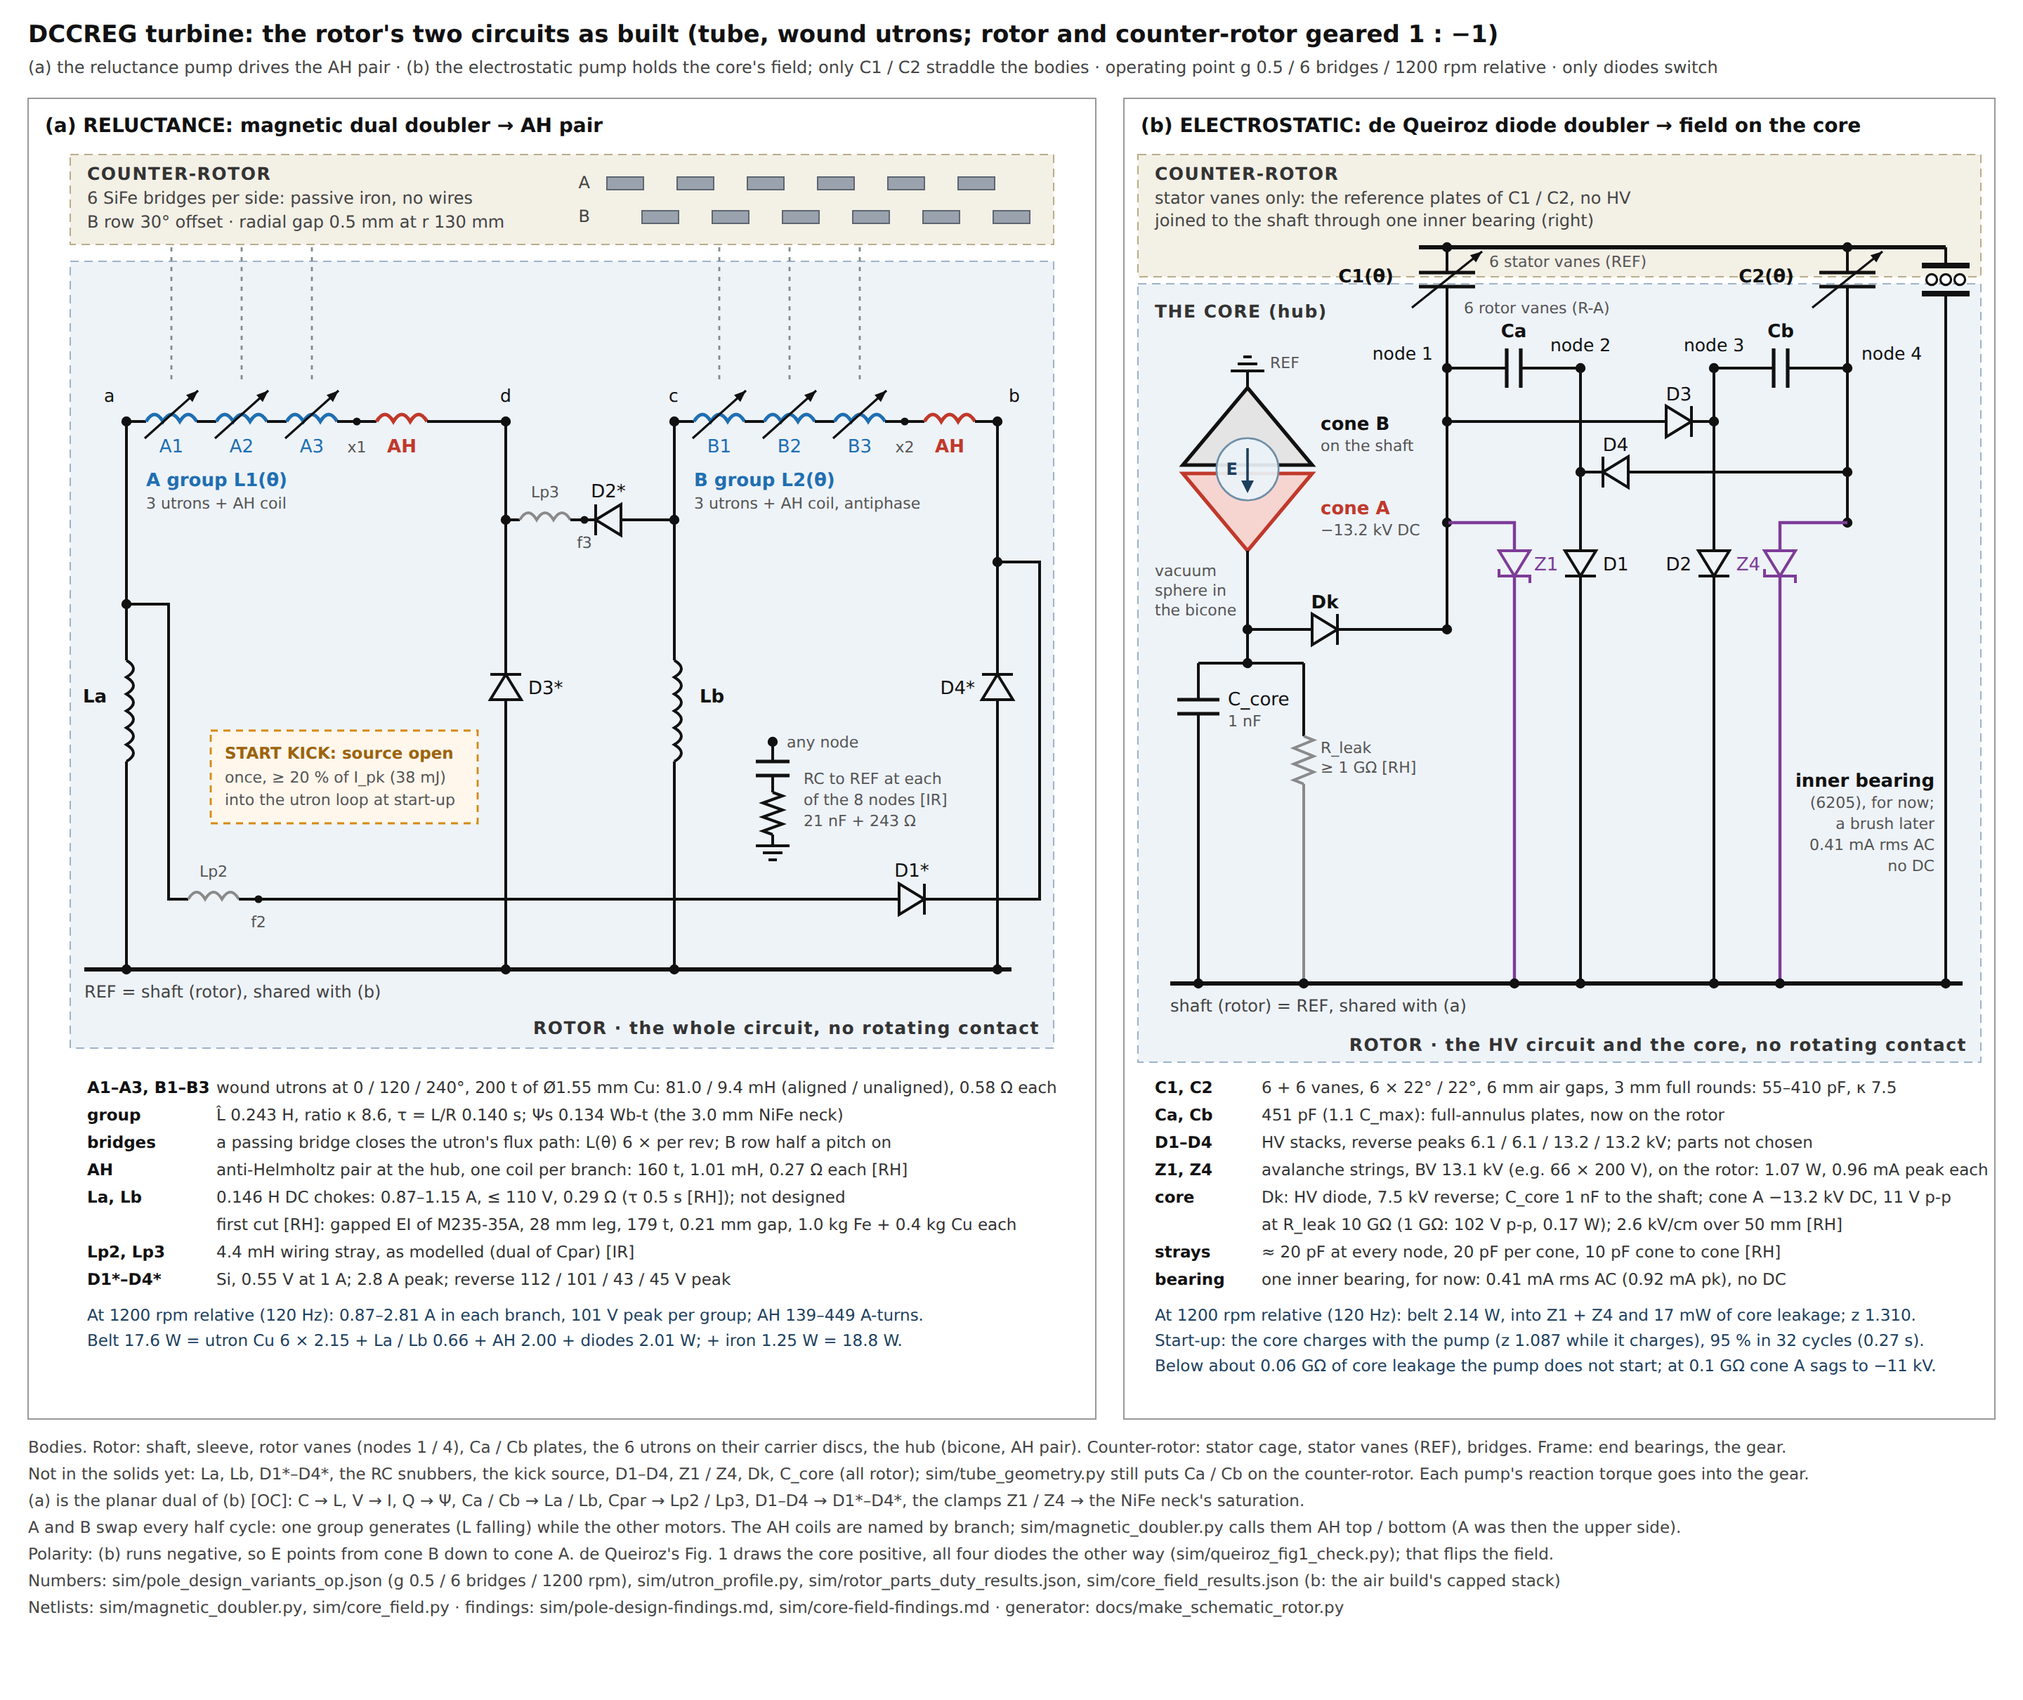
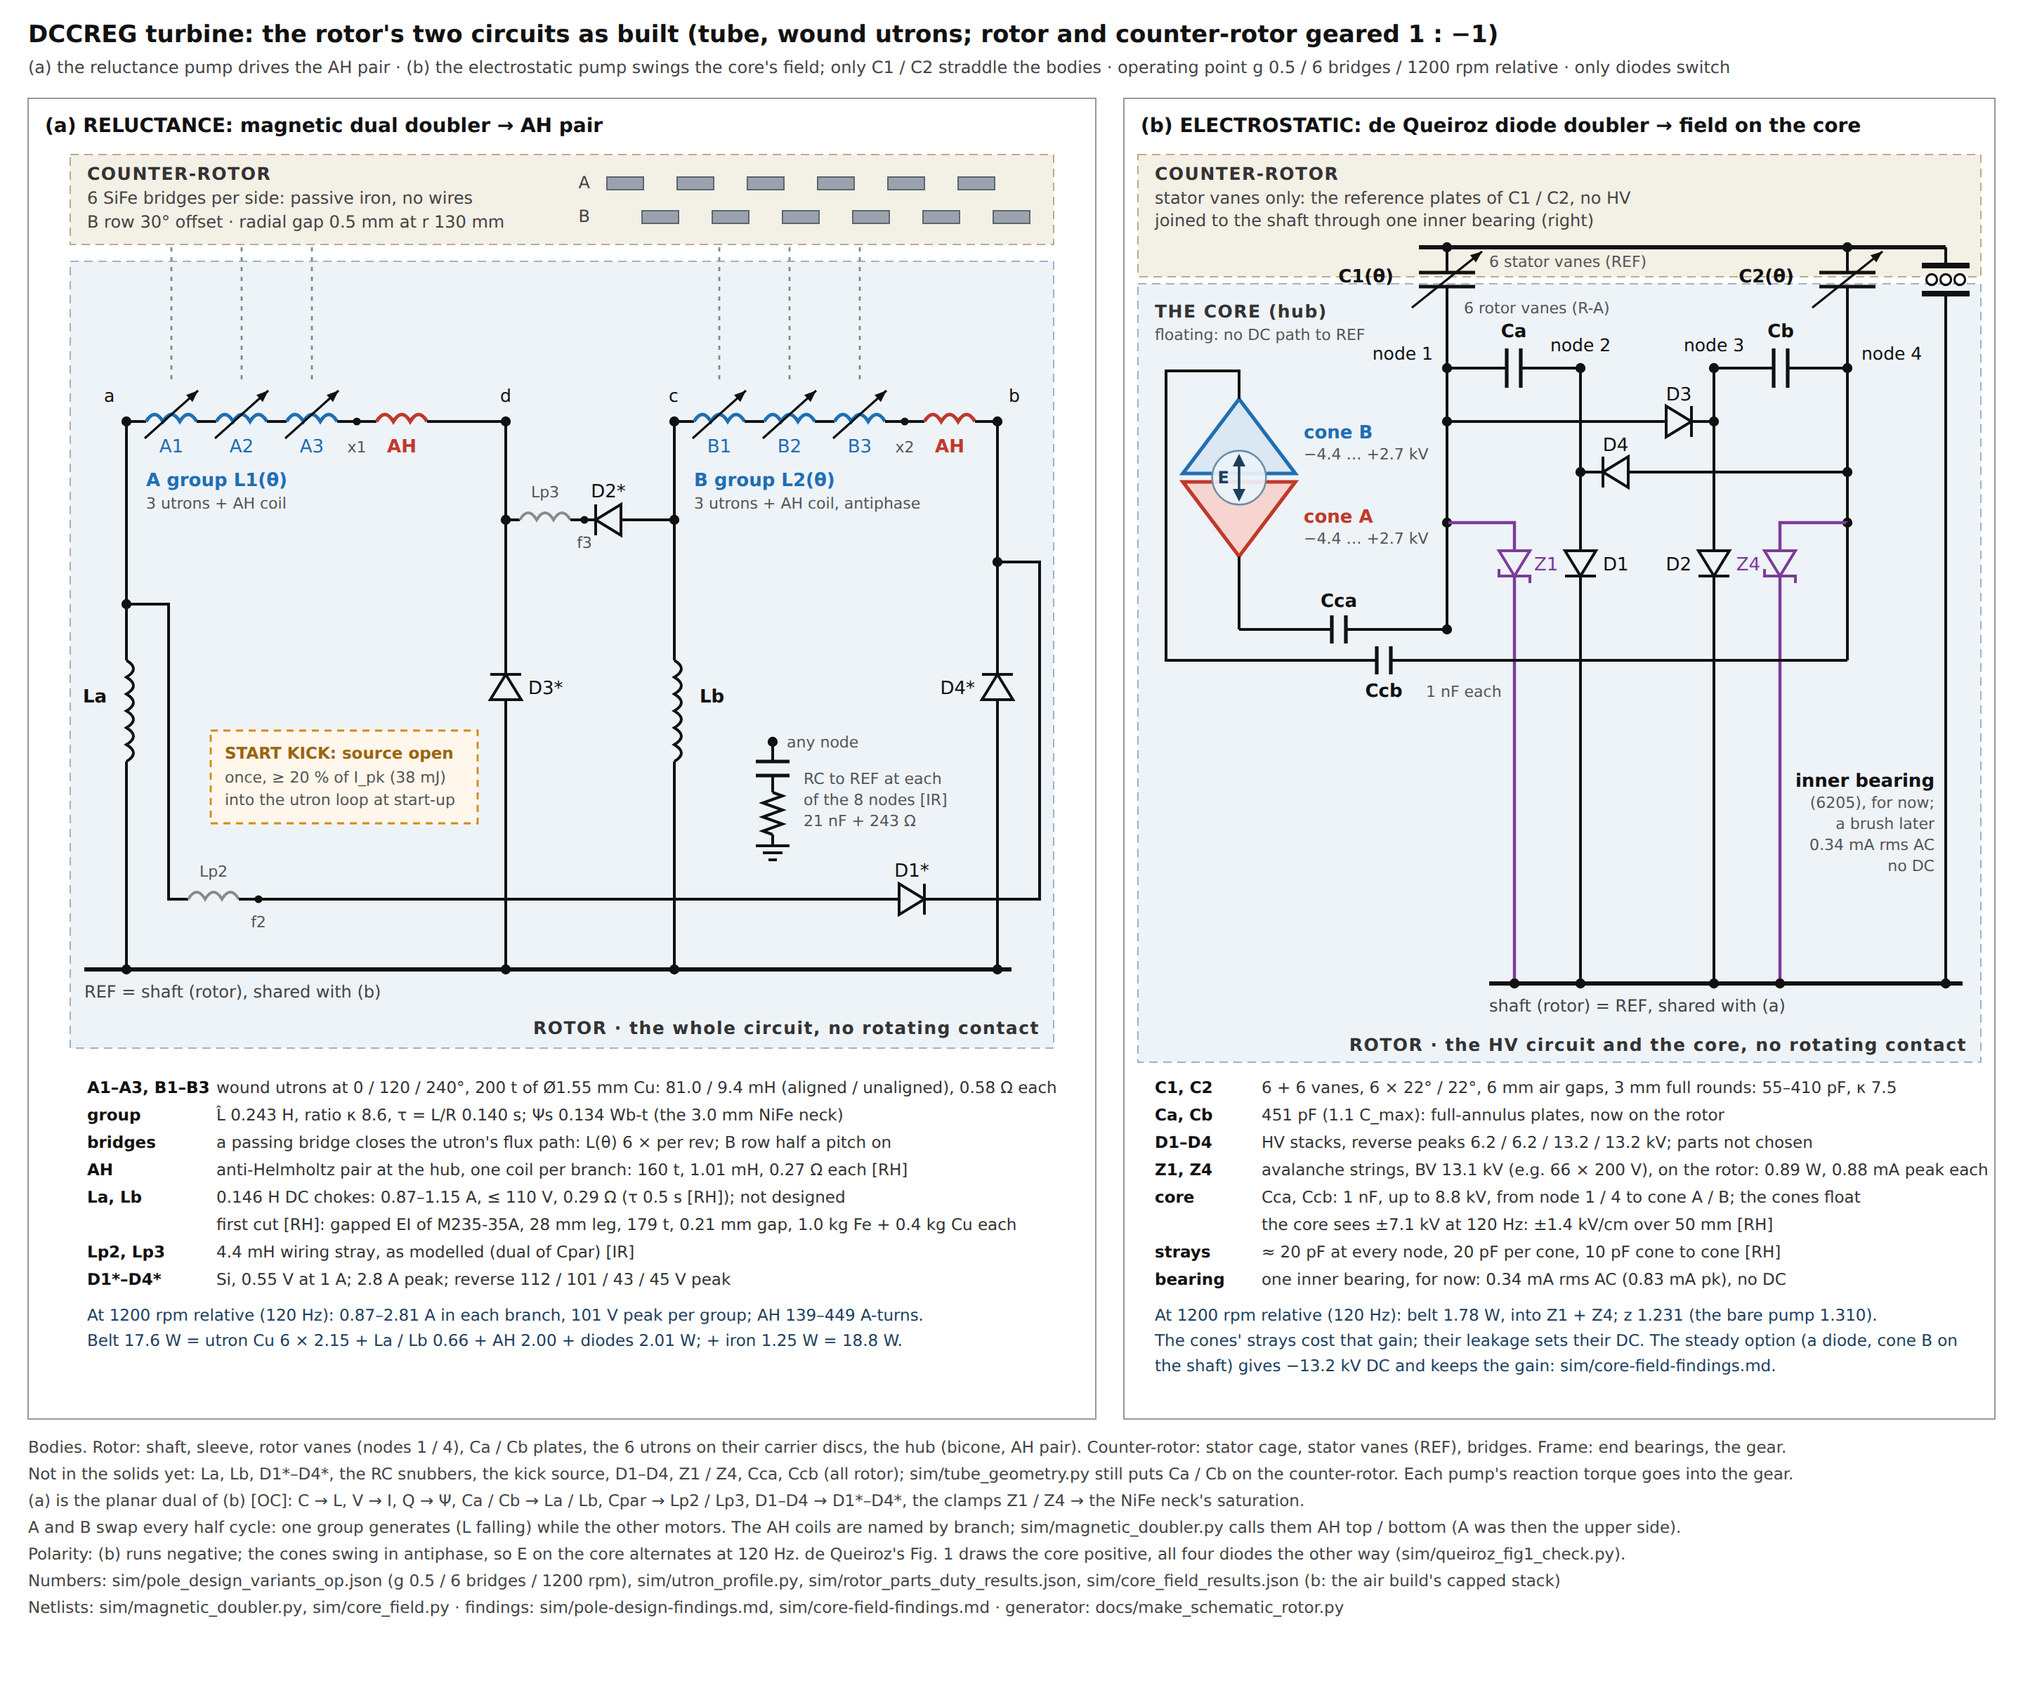
docs(schematic): panel (b) with the floating cones and the swinging field
Cca / Ccb from nodes 1 / 4 to the cones, no path from the core to REF, the
E arrow both ways; the table quotes the swing, the coupling capacitors'
voltage and the gain the cones cost.

Claude-Session: https://claude.ai/code/session_019kWq1ZtzZgffamNAmjzqBU

diff --git a/docs/make_schematic_rotor.py b/docs/make_schematic_rotor.py
@@ -5,8 +5,9 @@
     counter-rotor's passive bridges make L(theta); no wire crosses between the bodies.
 (b) ELECTROSTATIC: the de Queiroz diode doubler with its HV side on the rotor (sim/core_field.py netlist; the air
     build's capped stack) -- C1 / C2 between the rotor vanes (nodes 1 / 4) and the counter-rotor's stator vanes, which
-    are the reference; Ca / Cb, D1-D4 and the clamps Z1 / Z4 on the rotor; the core diode Dk charging cone A, held by
-    C_core, cone B on the shaft; the stator vanes joined to the shaft through one inner bearing for now (a brush later).
+    are the reference; Ca / Cb, D1-D4 and the clamps Z1 / Z4 on the rotor; the cones floating, each coupled to its node
+    (A to 1, B to 4) through Cc, so the core sees a swinging field; the stator vanes joined to the shaft through one
+    inner bearing for now (a brush later).
 Values: sim/pole_design_variants_op.json (the pick), sim/utron_profile.py, sim/rotor_parts_duty_results.json (La / Lb,
 D1*-D4* at the pick), sim/core_field_results.json (the electrostatic pump, the core and the link).
 Usage: python3 docs/make_schematic_rotor.py   (the PNG needs playwright + chromium)
@@ -247,15 +248,16 @@ def panel_a_table(ox, y, N):
 
 # ------------------------------------------------------------------------------------------------ (b) electrostatic
 def bicone(xc, yc, hw=50, hh=62, gap=3):
-    """the hub's bicone as electrodes around the vacuum sphere: cone A (lower, HV) and cone B (upper, on the shaft)."""
+    """the hub's bicone as electrodes around the vacuum sphere: cone A (lower) and cone B (upper)."""
     o.append(f'<polygon points="{xc - hw:.1f},{yc + gap:.1f} {xc + hw:.1f},{yc + gap:.1f} {xc:.1f},{yc + hh:.1f}" '
              'class="cone_a"/>')
     o.append(f'<polygon points="{xc - hw:.1f},{yc - gap:.1f} {xc + hw:.1f},{yc - gap:.1f} {xc:.1f},{yc - hh:.1f}" '
              'class="cone_b"/>')
     o.append(f'<circle cx="{xc:.1f}" cy="{yc:.1f}" r="{0.48 * hw:.1f}" class="glass"/>')
-    ln(xc, yc - 15, xc, yc + 13, "ef")                                   # E: from cone B (0 V) to cone A (negative)
-    o.append(f'<polygon points="{xc:.1f},{yc + 17:.1f} {xc - 4.5:.1f},{yc + 8:.1f} {xc + 4.5:.1f},{yc + 8:.1f}" '
-             'fill="#1d3f5e"/>')
+    ln(xc, yc - 12, xc, yc + 12, "ef")                                   # E swings: up and down at 120 Hz
+    for sg in (1, -1):
+        o.append(f'<polygon points="{xc:.1f},{yc + sg * 17:.1f} {xc - 4.5:.1f},{yc + sg * 8:.1f} '
+                 f'{xc + 4.5:.1f},{yc + sg * 8:.1f}" fill="#1d3f5e"/>')
     tx(xc - 7, yc + 4, "E", "te", "end")
     return yc - hh, yc + hh
 
@@ -302,52 +304,47 @@ def panel_b(ox, N):
     for x, xz, nm in ((x1, x1z, "Z1"), (x4, x4z, "Z4")):
         dot(x, y_z); pl([(x, y_z), (xz, y_z), (xz, 392)], "lim"); diode(xz, 392, "down", "#7d3c98", zener=True)
         ln(xz, 410, xz, y_sh, "lim"); tx(xz + (14 if x == x1 else -14), 406, nm, "tl", "start" if x == x1 else "end")
-    # the core: cone A charged from node 1 through Dk, held by C_core; R_leak is the core's insulation [RH]
-    xk = ox + 108
+    # the core: the cones float, each coupled to its node through Cc; only their leakage ties their DC to the shaft
+    fs = N["cfr"]["float ss"]
+    xk, y_kb = ox + 102, y_k + 22
     ln(x1, y_n, x1, y_k); dot(x1, y_k)
-    yt, ybm = bicone(xk, 334, hw=46, hh=58)
-    ln(xk, ybm, xk, y_k); dot(xk, y_k)
-    ln(xk, y_k, xk + 46, y_k); diode(xk + 46, y_k, "right"); ln(xk + 64, y_k, x1, y_k)
-    tx(xk + 55, y_k - 15, "Dk", "t", "middle", 'font-weight="bold"')
-    ln(xk, yt, xk, yt - 12)
-    for k_, w_ in enumerate((12, 7, 3)):                                 # REF at cone B's apex (the upper flange)
-        ln(xk - w_, yt - 12 - 5 * k_, xk + w_, yt - 12 - 5 * k_)
-    tx(xk + 16, yt - 14, "REF", "ms")
-    tx(xk + 52, 306, "cone B", "t", "start", 'font-weight="bold"')
-    tx(xk + 52, 321, "on the shaft", "ms")
-    tx(xk + 52, 366, "cone A", "ta", "start", 'font-weight="bold"')
-    tx(xk + 52, 381, kv(N['cfr']['peak 1nF 10G']['V_core_kV']['mean']) + " kV DC", "ms")
+    ln(x4, y_z, x4, y_kb)
+    yt, ybm = bicone(xk, 340, hw=40, hh=56)
+    ln(xk, ybm, xk, y_k)
+    ln(xk, y_k, ox + 168, y_k); cap_h(ox + 168, y_k, 10); ln(ox + 178, y_k, x1, y_k)
+    tx(ox + 173, y_k - 16, "Cca", "t", "middle", 'font-weight="bold"')
+    pl([(xk, yt), (xk, yt - 20), (ox + 50, yt - 20), (ox + 50, y_kb), (ox + 200, y_kb)])
+    cap_h(ox + 200, y_kb, 10); ln(ox + 210, y_kb, x4, y_kb)
+    tx(ox + 205, y_kb + 26, "Ccb", "t", "middle", 'font-weight="bold"')
+    tx(ox + 235, y_kb + 26, "1 nF each", "ms", "start")
+    ca, cb = fs["V_ka_kV"], fs["V_kb_kV"]
+    tx(xk + 46, 312, "cone B", "tu", "start", 'font-weight="bold"')
+    tx(xk + 46, 327, f"{kv(cb['min'])} … +{cb['max']:.1f} kV", "ms")
+    tx(xk + 46, 372, "cone A", "ta", "start", 'font-weight="bold"')
+    tx(xk + 46, 387, f"{kv(ca['min'])} … +{ca['max']:.1f} kV", "ms")
     tx(ox + 42, 226, "THE CORE (hub)", "zh")
-    tx(ox + 42, 410, "vacuum", "ms"); tx(ox + 42, 424, "sphere in", "ms"); tx(ox + 42, 438, "the bicone", "ms")
-    yb = y_k + 24
-    ln(xk, y_k, xk, yb); dot(xk, yb)
-    xc, xr = xk - 35, xk + 40
-    ln(xc, yb, xr, yb)
-    ln(xc, yb, xc, yb + 26); cap_v(xc, yb + 26, 15); ln(xc, yb + 36, xc, y_sh)
-    tx(xc + 21, yb + 30, "C_core", "t", "start"); tx(xc + 21, yb + 45, "1 nF", "ms")
-    ln(xr, yb, xr, yb + 52); res_v(xr, yb + 52, 34, "st"); ln(xr, yb + 86, xr, y_sh, "st")
-    tx(xr + 12, yb + 64, "R_leak", "ms"); tx(xr + 12, yb + 78, "≥ 1 GΩ [RH]", "ms")
+    tx(ox + 42, 242, "floating: no DC path to REF", "ms")
     # the one rotating contact: an inner bearing (outer ring on the counter-rotor, inner ring on the shaft)
     ln(xb, y_s, xb, y_bd - 10)
     ln(xb - 17, y_bd - 10, xb + 17, y_bd - 10, "ring"); ln(xb - 17, y_bd + 10, xb + 17, y_bd + 10, "ring")
     for dx in (-10, 0, 10):
         o.append(f'<circle cx="{xb + dx:.1f}" cy="{y_bd:.1f}" r="3.8" class="ball"/>')
     ln(xb, y_bd + 10, xb, y_sh)
-    lk = N["cfr"]["none"]["link"]
+    lk = N["cfr"]["float ss"]["link"]
     for i, t_ in enumerate(("inner bearing", "(6205), for now;", "a brush later", f"{lk['I_rms_mA']:.2f} mA rms AC",
                             "no DC")):
         tx(xb - 8, 560 + 15 * i, t_, "t" if i == 0 else "ms", "end", 'font-weight="bold"' if i == 0 else "")
     # shaft
-    ln(xc - 20, y_sh, xb + 12, y_sh, "rail")
-    for x in (xc, xr, x1z, x2, x3, x4z, xb):
+    ln(x1z - 18, y_sh, xb + 12, y_sh, "rail")
+    for x in (x1z, x2, x3, x4z, xb):
         dot(x, y_sh)
-    tx(xc - 20, y_sh + 20, "shaft (rotor) = REF, shared with (a)", "m")
+    tx(x1z - 18, y_sh + 20, "shaft (rotor) = REF, shared with (a)", "m")
 
 
 def panel_b_table(ox, y, N):
     d, cf, R = N["cf"]["design"], N["cf"], N["cfr"]
-    nn, pk, pk1, st = R["none"], R["peak 1nF 10G"], R["peak 1nF 1G"], R["start peak 1nF 10G"]
-    vr = pk["VR_pk_kV"]
+    fs, pk = R["float ss"], R["peak 1nF 10G"]
+    vr = fs["VR_pk_kV"]
     zs = N["duty"]["clamp_string"]
     n_z = math.ceil(d["V_op_kV"] * 1e3 / zs["V_Z"])
     rows = [
@@ -358,24 +355,22 @@ def panel_b_table(ox, y, N):
         ("D1–D4", f"HV stacks, reverse peaks {vr['D1']:.1f} / {vr['D2']:.1f} / {vr['D3']:.1f} / {vr['D4']:.1f} kV; "
                   "parts not chosen"),
         ("Z1, Z4", f"avalanche strings, BV {d['V_op_kV']:.1f} kV (e.g. {n_z} × {zs['V_Z']:.0f} V), on the rotor: "
-                   f"{nn['Z1']['P_W']:.2f} W, {nn['Z1']['I_pk_mA']:.2f} mA peak each"),
-        ("core", f"Dk: HV diode, {vr['Dk']:.1f} kV reverse; C_core 1 nF to the shaft; cone A "
-                 f"{kv(pk['V_core_kV']['mean'])} kV DC, {1e3 * pk['V_core_kV']['pp']:.0f} V p-p"),
-        ("", f"at R_leak 10 GΩ (1 GΩ: {1e3 * pk1['V_core_kV']['pp']:.0f} V p-p, {pk1['P_leak_W']:.2f} W); "
-             f"{pk['E_mean_kV_cm']:.1f} kV/cm over {cf['D_CORE_mm']:.0f} mm [RH]"),
+                   f"{fs['Z1']['P_W']:.2f} W, {fs['Z1']['I_pk_mA']:.2f} mA peak each"),
+        ("core", f"Cca, Ccb: 1 nF, up to {vr['CC']:.1f} kV, from node 1 / 4 to cone A / B; the cones float"),
+        ("", f"the core sees ±{fs['swing_pk_kV']:.1f} kV at 120 Hz: ±{fs['E_pk_kV_cm']:.1f} kV/cm over "
+             f"{cf['D_CORE_mm']:.0f} mm [RH]"),
         ("strays", f"≈ {cf['CPAR_pF']:.0f} pF at every node, {cf['C_CONE_pF']:.0f} pF per cone, {cf['C_CC_pF']:.0f} pF "
                    "cone to cone [RH]"),
-        ("bearing", f"one inner bearing, for now: {nn['link']['I_rms_mA']:.2f} mA rms AC "
-                    f"({nn['link']['I_pk_mA']:.2f} mA pk), no DC"),
+        ("bearing", f"one inner bearing, for now: {fs['link']['I_rms_mA']:.2f} mA rms AC "
+                    f"({fs['link']['I_pk_mA']:.2f} mA pk), no DC"),
     ]
     y = table(ox + 42, y, rows, w_key=76)
-    z0 = R["free none"]["z"]
-    tx(ox + 42, y + 6, f"At {cf['rpm_rel']:.0f} rpm relative ({cf['F_Hz']:.0f} Hz): belt {pk['P_belt_W']:.2f} W, into "
-                       f"Z1 + Z4 and {1e3 * pk['P_leak_W']:.0f} mW of core leakage; z {z0:.3f}.", "op")
-    tx(ox + 42, y + 24, f"Start-up: the core charges with the pump (z {R['free peak 1nF 10G']['z']:.3f} while it charges), "
-                        f"95 % in {st['cycles_to_95pc']} cycles ({st['t_to_95pc_s']:.2f} s).", "op")
-    tx(ox + 42, y + 42, f"Below about 0.06 GΩ of core leakage the pump does not start; at 0.1 GΩ cone A sags to "
-                        f"{kv(R['peak 1nF 0.1G']['V_core_kV']['mean'], '{:.0f}')} kV.", "op")
+    tx(ox + 42, y + 6, f"At {cf['rpm_rel']:.0f} rpm relative ({cf['F_Hz']:.0f} Hz): belt {fs['P_belt_W']:.2f} W, into "
+                       f"Z1 + Z4; z {R['free float']['z']:.3f} (the bare pump {R['free none']['z']:.3f}).", "op")
+    tx(ox + 42, y + 24, "The cones' strays cost that gain; their leakage sets their DC. The steady option (a diode, "
+                        f"cone B on", "op")
+    tx(ox + 42, y + 42, f"the shaft) gives {kv(pk['V_core_kV']['mean'])} kV DC and keeps the gain: "
+                        "sim/core-field-findings.md.", "op")
 
 
 # ------------------------------------------------------------------------------------------------ sheet
@@ -400,12 +395,12 @@ def main():
     .tk{fill:#111;font-size:11.5px;font-weight:bold} .tk2{fill:#9c640c;font-size:11.5px;font-weight:bold} .tv{fill:#333;font-size:11.5px}
     .op{fill:#1d3f5e;font-size:11.5px} .h{font-size:17px;font-weight:bold;fill:#111} .h2{font-size:14px;font-weight:bold;fill:#111}
     .n{fill:#444;font-size:11.5px} .te{fill:#1d3f5e;font-size:12px;font-weight:bold} .ef{stroke:#1d3f5e;stroke-width:1.8}
-    .cone_a{fill:#f6d5d1;stroke:#c0392b;stroke-width:2.6} .cone_b{fill:#e4e4e4;stroke:#111;stroke-width:2.6}
+    .cone_a{fill:#f6d5d1;stroke:#c0392b;stroke-width:2.6} .cone_b{fill:#dbe7f3;stroke:#1f6fb2;stroke-width:2.6}
     .glass{fill:#eaf3f8;fill-opacity:0.92;stroke:#6f8ea6;stroke-width:1.3}
   </style>""")
     b = N["b"]
     tx(20, 30, "DCCREG turbine: the rotor's two circuits as built (tube, wound utrons; rotor and counter-rotor geared 1 : −1)", "h")
-    tx(20, 52, f"(a) the reluctance pump drives the AH pair · (b) the electrostatic pump holds the core's field; only C1 / C2 "
+    tx(20, 52, f"(a) the reluctance pump drives the AH pair · (b) the electrostatic pump swings the core's field; only C1 / C2 "
                f"straddle the bodies · operating point {PICK} relative · only diodes switch", "m")
     for ox, w, title in ((20, 760, "(a) RELUCTANCE: magnetic dual doubler → AH pair"),
                          (800, 620, "(b) ELECTROSTATIC: de Queiroz diode doubler → field on the core")):
@@ -418,14 +413,14 @@ def main():
     notes = [
         "Bodies. Rotor: shaft, sleeve, rotor vanes (nodes 1 / 4), Ca / Cb plates, the 6 utrons on their carrier discs, the hub "
         "(bicone, AH pair). Counter-rotor: stator cage, stator vanes (REF), bridges. Frame: end bearings, the gear.",
-        "Not in the solids yet: La, Lb, D1*–D4*, the RC snubbers, the kick source, D1–D4, Z1 / Z4, Dk, C_core (all rotor); "
+        "Not in the solids yet: La, Lb, D1*–D4*, the RC snubbers, the kick source, D1–D4, Z1 / Z4, Cca, Ccb (all rotor); "
         "sim/tube_geometry.py still puts Ca / Cb on the counter-rotor. Each pump's reaction torque goes into the gear.",
         "(a) is the planar dual of (b) [OC]: C → L, V → I, Q → Ψ, Ca / Cb → La / Lb, Cpar → Lp2 / Lp3, D1–D4 → D1*–D4*, "
         "the clamps Z1 / Z4 → the NiFe neck's saturation.",
         "A and B swap every half cycle: one group generates (L falling) while the other motors. The AH coils are named by branch; "
         "sim/magnetic_doubler.py calls them AH top / bottom (A was then the upper side).",
-        "Polarity: (b) runs negative, so E points from cone B down to cone A. de Queiroz's Fig. 1 draws the core positive, all "
-        "four diodes the other way (sim/queiroz_fig1_check.py); that flips the field.",
+        "Polarity: (b) runs negative; the cones swing in antiphase, so E on the core alternates at 120 Hz. de Queiroz's Fig. 1 "
+        "draws the core positive, all four diodes the other way (sim/queiroz_fig1_check.py).",
         f"Numbers: sim/pole_design_variants_op.json ({PICK}), sim/utron_profile.py, sim/rotor_parts_duty_results.json, "
         "sim/core_field_results.json (b: the air build's capped stack)",
         "Netlists: sim/magnetic_doubler.py, sim/core_field.py · findings: sim/pole-design-findings.md, sim/core-field-findings.md "
